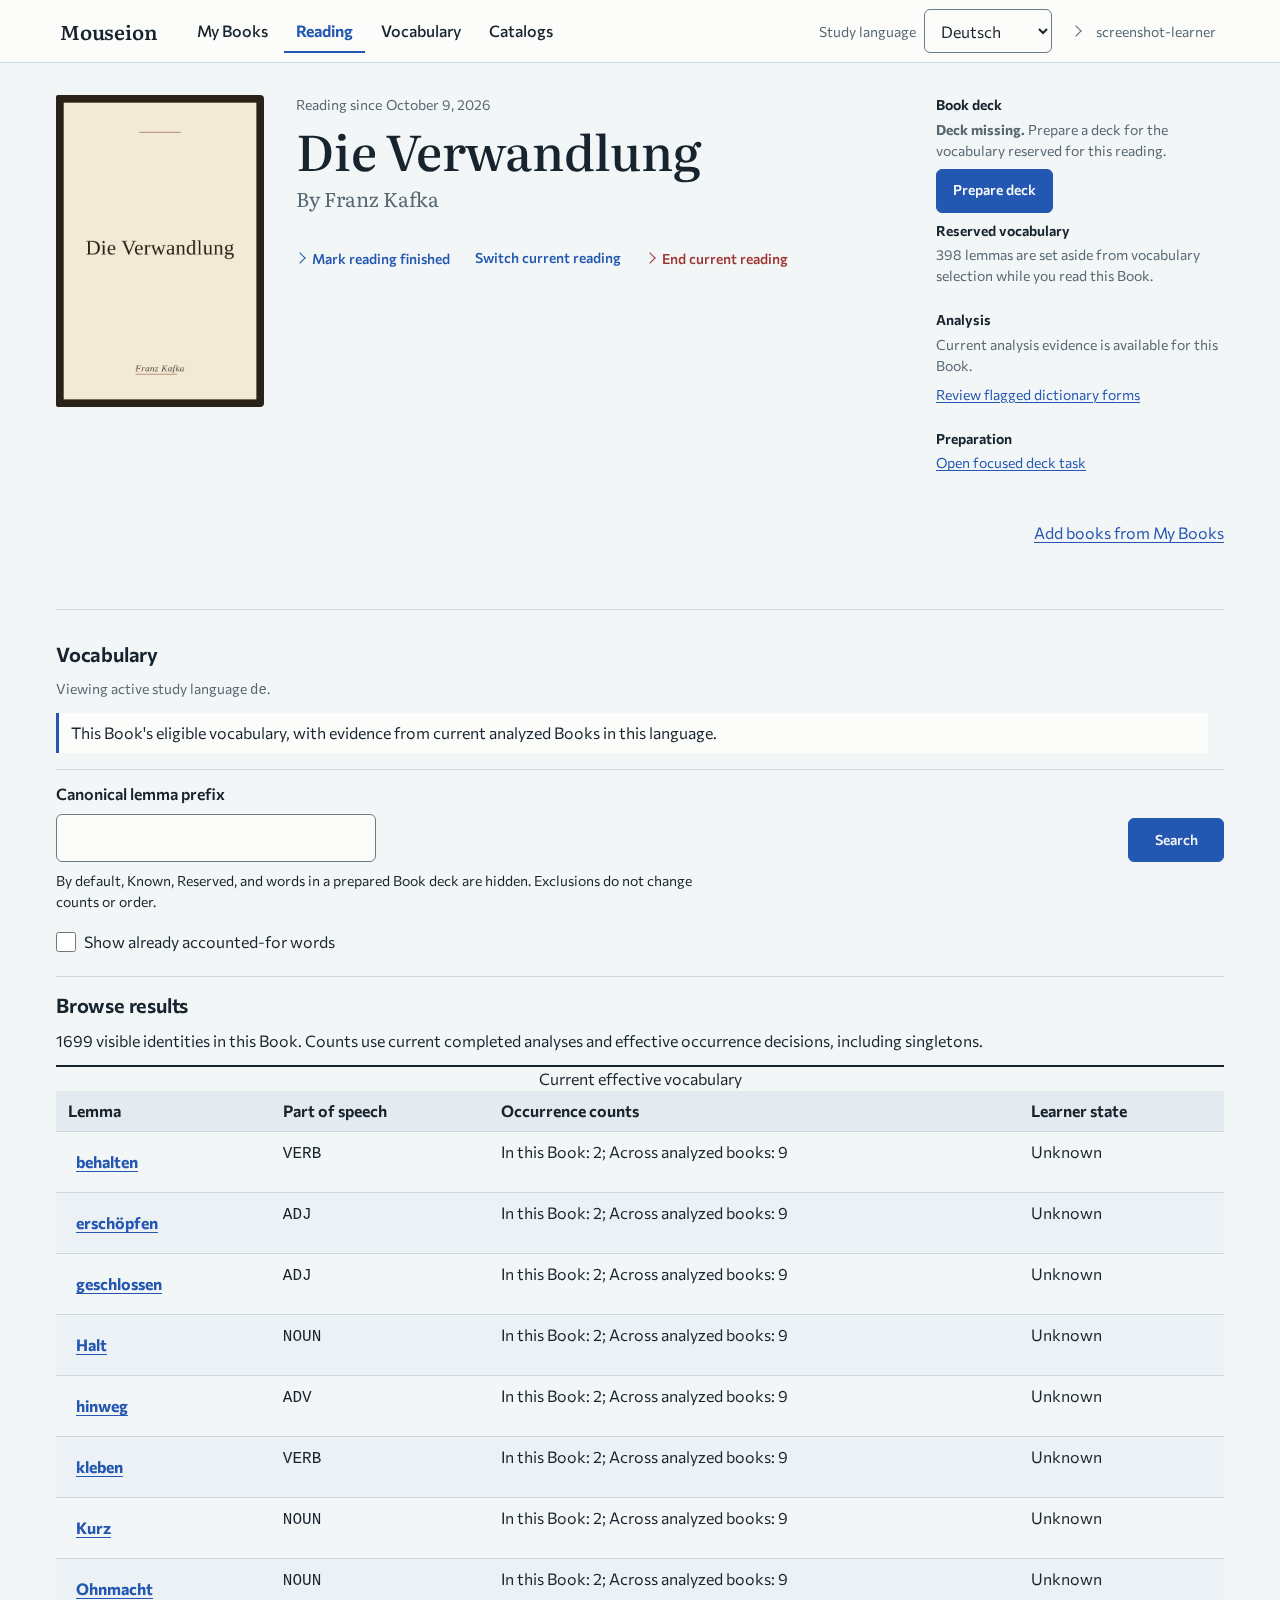
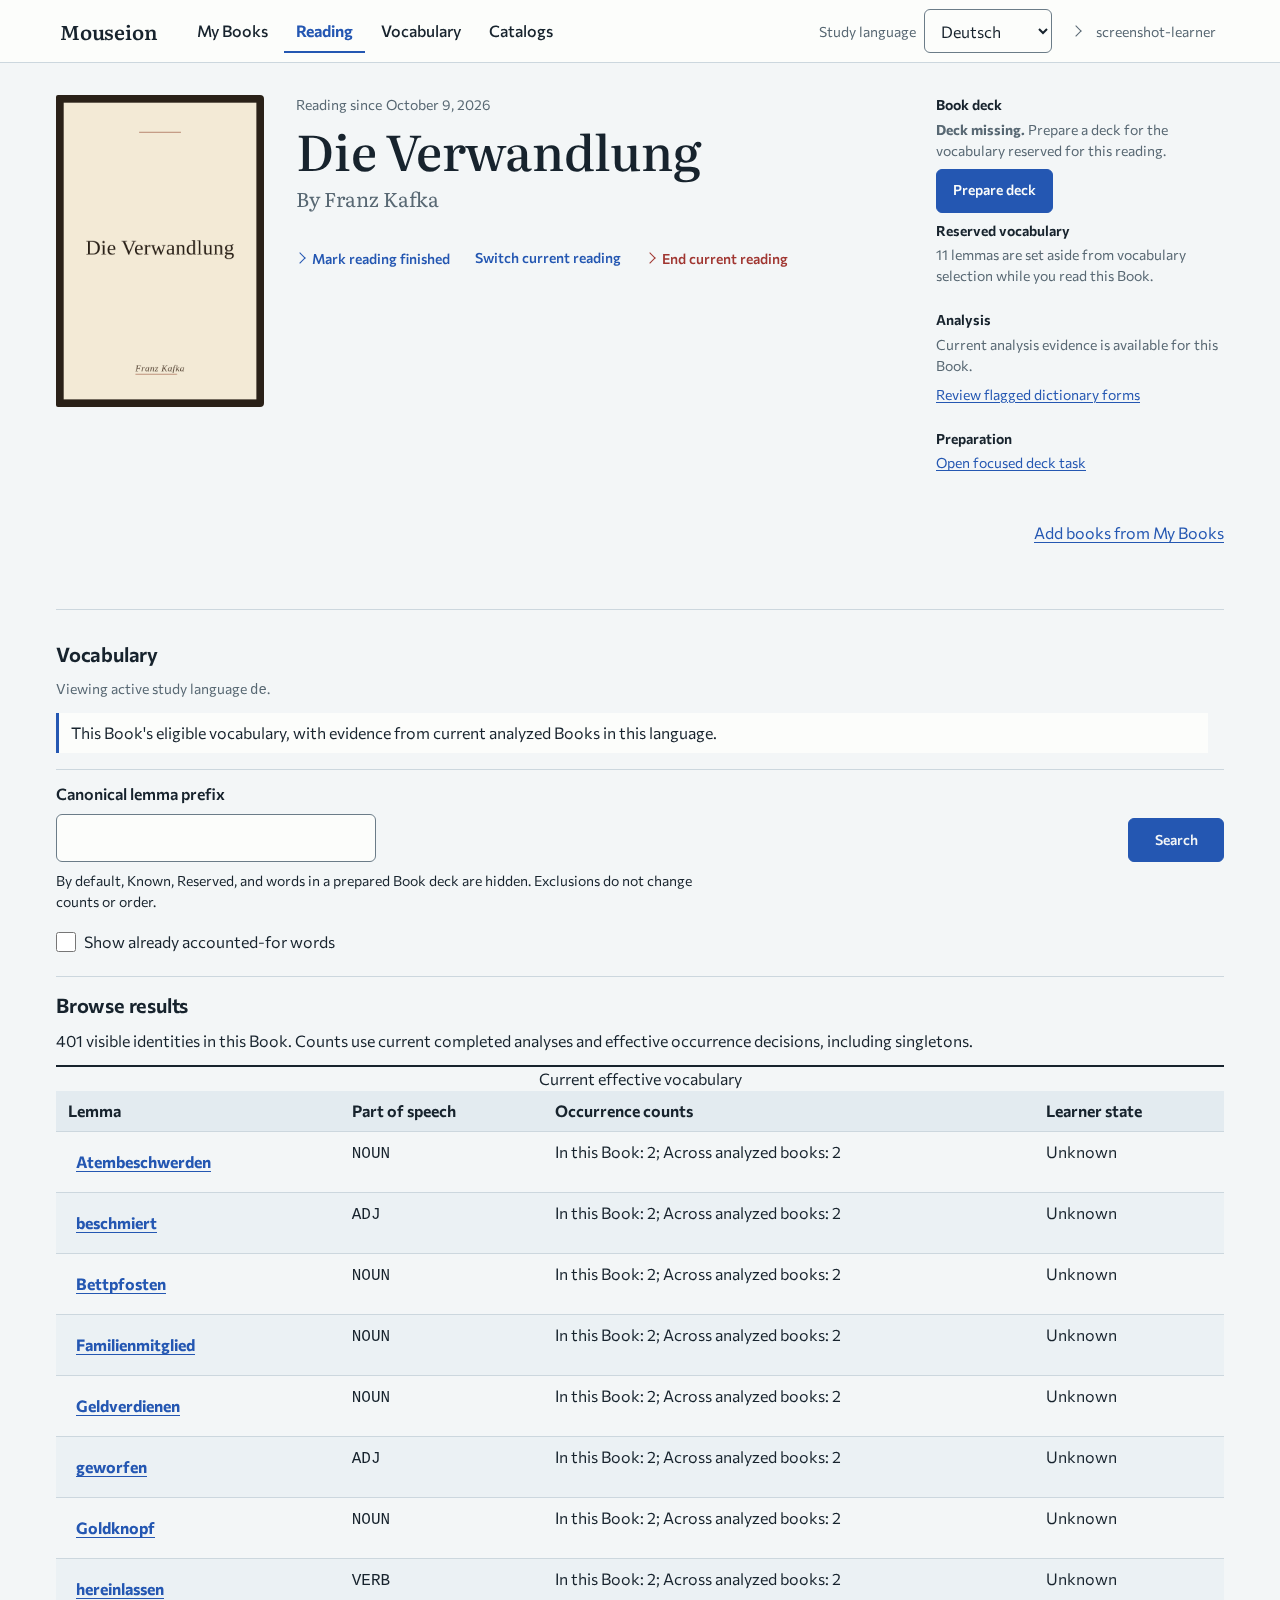
feat(e2e): capture Concordance and sentence Study screenshots (#1632) (#1643)

diff --git a/e2e/screenshot/my-books.spec.ts b/e2e/screenshot/my-books.spec.ts
@@ -3,7 +3,8 @@
 // scenario Books to To Read and waits for each analysis, imports a Known
 // vocabulary baseline derived from the other Books (known-vocabulary.ts), reads
 // one Book to completion, starts the target Book, and then captures the Reading
-// view and My Books. Every input comes from the environment set by run.mjs, and
+// view and My Books, then looks up the configured lemma and captures the
+// Concordance and one sentence Study. Every input comes from the environment set by run.mjs, and
 // every wait is bounded and reports the Book or step that stalled.
 import { expect, test, type Page } from '@playwright/test';
 import { readFileSync } from 'node:fs';
@@ -18,6 +19,13 @@ interface ManifestBook {
   journey: Journey;
 }
 
+interface ManifestConcordance {
+  lemma: string;
+  upos: string;
+  minimumOccurrences: number;
+  minimumBooks: number;
+}
+
 function requiredEnv(name: string): string {
   const value = process.env[name];
   if (!value) throw new Error(`${name} is required; run this spec through make screenshot-my-books`);
@@ -30,11 +38,15 @@ const catalogName = requiredEnv('MOUSEION_SCREENSHOT_CATALOG_NAME');
 const catalogURL = requiredEnv('MOUSEION_SCREENSHOT_CATALOG_URL');
 const myBooksOutputPath = requiredEnv('MOUSEION_SCREENSHOT_OUTPUT');
 const readingOutputPath = requiredEnv('MOUSEION_SCREENSHOT_READING_OUTPUT');
+const concordanceOutputPath = requiredEnv('MOUSEION_SCREENSHOT_CONCORDANCE_OUTPUT');
+const studyOutputPath = requiredEnv('MOUSEION_SCREENSHOT_STUDY_OUTPUT');
 // The docker compose arguments that address the isolated stack, as a JSON array.
 const composeArgs = JSON.parse(requiredEnv('MOUSEION_SCREENSHOT_COMPOSE_ARGS')) as string[];
 const manifest = JSON.parse(readFileSync(requiredEnv('MOUSEION_SCREENSHOT_MANIFEST'), 'utf8')) as {
   books: ManifestBook[];
+  concordance: ManifestConcordance;
 };
+const { concordance } = manifest;
 
 const SYNC_TIMEOUT_MS = 5 * 60_000;
 const COVER_TIMEOUT_MS = 6 * 60_000;
@@ -46,6 +58,8 @@ const IMPORT_TIMEOUT_MS = 5 * 60_000;
 const MOVE_TIMEOUT_MS = 60_000;
 const POLL_INTERVAL_MS = 5_000;
 const MAX_SCREENSHOT_HEIGHT = 1600;
+// One Concordance page holds 25 results; the Study capture searches only these.
+const STUDY_CANDIDATE_LIMIT = 25;
 
 const WORKFLOW_LABEL: Record<Journey, string> = {
   inbox: 'Inbox',
@@ -305,8 +319,74 @@ async function assertBookVocabulary(page: Page, book: ManifestBook): Promise<voi
   });
 }
 
-async function settleAndCapture(page: Page, path: string, outputPath: string): Promise<void> {
-  await page.goto(path);
+// Looks up the configured lemma as a learner would: type it into the
+// Concordance form and submit. The applied lookup must be a lemma lookup.
+async function lookUpLemma(page: Page): Promise<void> {
+  await page.goto('/vocabulary/concordance');
+  await page.getByLabel('Lemma or word form').fill(concordance.lemma);
+  await page.getByRole('button', { name: 'Find', exact: true }).click();
+  await expect(
+    page.locator('#concordance-summary'),
+    `the Concordance did not apply "${concordance.lemma}" as a lemma; the analyzed corpus has no evidenced lemma of that form`,
+  ).toHaveText(`Forms of ${concordance.lemma}`, { timeout: 30_000 });
+}
+
+// The Concordance must show enough lines from enough Books to be a credible
+// example. Fewer means the corpus, the analysis, or the configured lemma changed.
+async function assertConcordanceCorpus(page: Page): Promise<void> {
+  const lines = await page.locator('li.concordance-result').count();
+  const books = new Set(
+    (await page.locator('.concordance-source-title').allTextContents()).map(title => title.trim()).filter(Boolean),
+  );
+  if (lines < concordance.minimumOccurrences || books.size < concordance.minimumBooks) {
+    throw new Error(
+      `The analyzed corpus yields ${lines} Concordance line(s) from ${books.size} Book(s) for lemma "${concordance.lemma}"; ` +
+        `the screenshot needs at least ${concordance.minimumOccurrences} lines from ${concordance.minimumBooks} Books. ` +
+        'Check the concordance lemma in e2e/screenshot/manifest.json and the analysis results.',
+    );
+  }
+}
+
+// The Concordance has no part-of-speech control, so the lemma's occurrences
+// include nominalised and other forms. Opens the first result, within the first
+// page, whose identified token is the configured part of speech, then checks
+// that the token shows lemma and dependency evidence and resolves to the lemma.
+// Each result is opened in turn and the browser goes back between them.
+async function openSentenceStudy(page: Page): Promise<void> {
+  const concordanceSummary = page.locator('#concordance-summary');
+  const links = page.getByRole('link', { name: 'Study this sentence and its syntax' });
+  const candidates = Math.min(await links.count(), STUDY_CANDIDATE_LIMIT);
+  expect(candidates, `the Concordance for "${concordance.lemma}" has no results to study`).toBeGreaterThan(0);
+
+  const skipped: string[] = [];
+  for (let index = 0; index < candidates; index++) {
+    await links.nth(index).click();
+    await expect(page.locator('#sentence-study-heading'), 'the sentence Study view opened').toBeVisible({ timeout: 30_000 });
+    const target = page.locator('ol.sentence-study-tokens li', { has: page.getByText('identified target') });
+    await expect(target, 'the sentence Study does not identify the target token').toHaveCount(1);
+    const upos = (await target.locator('code').first().innerText()).trim();
+    if (upos !== concordance.upos) {
+      skipped.push(upos);
+      await page.goBack();
+      await expect(concordanceSummary, 'returned to the Concordance results').toBeVisible({ timeout: 30_000 });
+      continue;
+    }
+
+    const evidence = (await target.innerText()).replace(/\s+/g, ' ').trim();
+    expect(evidence, 'the target token lacks lemma evidence').toContain('lemma evidence');
+    expect(evidence, `the target token does not resolve to the lemma "${concordance.lemma}"`).toContain(
+      `effective lemma ${concordance.lemma}`,
+    );
+    expect(evidence, 'the target token lacks dependency evidence').toContain('dependency');
+    return;
+  }
+  throw new Error(
+    `None of the first ${candidates} Concordance results for "${concordance.lemma}" identifies a ${concordance.upos} token ` +
+      `(found: ${skipped.join(', ')}). Check the concordance lemma in e2e/screenshot/manifest.json.`,
+  );
+}
+
+async function settleAndCapture(page: Page, outputPath: string): Promise<void> {
   await page.emulateMedia({ colorScheme: 'light' });
   await page.evaluate(() => document.fonts.ready);
   await page.waitForFunction(() => document.querySelectorAll('.htmx-request').length === 0, undefined, { timeout: 15_000 });
@@ -334,7 +414,7 @@ async function settleAndCapture(page: Page, path: string, outputPath: string): P
   });
 }
 
-test('the scenario Books are analyzed, one is read to completion, and My Books and Reading are captured', async ({ page }) => {
+test('the scenario Books are analyzed, one is read to completion, and Reading, My Books, Concordance, and Study are captured', async ({ page }) => {
   const [readBook] = booksWithJourney('read');
   const [currentBook] = booksWithJourney('current');
   expect(booksWithJourney('read'), 'manifest has exactly one read Book').toHaveLength(1);
@@ -359,14 +439,19 @@ test('the scenario Books are analyzed, one is read to completion, and My Books a
   await startReading(page, currentBook);
   await assertBookVocabulary(page, currentBook);
   await expect(page.locator('#primary-goal-section').getByRole('heading', { level: 1 })).toContainText(currentBook.title);
-  await expect(
-    page.locator('p.numeric', { hasText: 'Known vocabulary coverage:' }).first(),
-    'a numeric Known coverage figure is shown in Reading before the capture',
-  ).toContainText(/\d+(?:\.\d+)?%/);
-  await settleAndCapture(page, '/reading', readingOutputPath);
+  await page.goto('/reading');
+  await settleAndCapture(page, readingOutputPath);
 
   for (const book of manifest.books) {
     expect(await workflowLabel(page, book), `${book.title} workflow bucket in My Books`).toBe(WORKFLOW_LABEL[book.journey]);
   }
-  await settleAndCapture(page, '/library', myBooksOutputPath);
+  await page.goto('/library');
+  await settleAndCapture(page, myBooksOutputPath);
+
+  await lookUpLemma(page);
+  await assertConcordanceCorpus(page);
+  await settleAndCapture(page, concordanceOutputPath);
+
+  await openSentenceStudy(page);
+  await settleAndCapture(page, studyOutputPath);
 });

diff --git a/e2e/screenshot/known-vocabulary.ts b/e2e/screenshot/known-vocabulary.ts
@@ -2,8 +2,9 @@
 // the analyzed corpus of the Books other than the target. The lemmas are read
 // read-only from the screenshot stack's own PostgreSQL through Compose, ranked
 // by frequency, and cut at the smallest rank whose estimated Known coverage of
-// the target Book reaches TARGET_COVERAGE_PERCENT. The spec imports the result
-// through the normal vocabulary interface and checks the coverage the app shows.
+// the target Book reaches TARGET_COVERAGE_PERCENT, or all of them when that
+// target is unreachable. The spec imports the result through the normal
+// vocabulary interface and checks the coverage the app shows against the band.
 import { spawn } from 'node:child_process';
 
 export const COVERAGE_MIN_PERCENT = 94;
@@ -67,9 +68,16 @@ export function chooseBaseline(
       };
     }
   }
-  throw new Error(
-    `the ${ranked.length} lemmas from the other Books reach only ${((known * 100) / denominator).toFixed(1)}% of the target Book`,
-  );
+  // The target is not reachable from the other Books, so every lemma is used and
+  // the spec's coverage band decides whether the result is acceptable.
+  const coverage = (Math.min(known, denominator) * 100) / denominator;
+  return {
+    lemmas: ranked.map(([value]) => value),
+    rank: ranked.length,
+    frequency: ranked.length > 0 ? ranked[ranked.length - 1][1] : 0,
+    estimatedCoverage: coverage,
+    text: ranked.map(([value]) => value).join('\n') + '\n',
+  };
 }
 
 function quoteLiteral(value: string): string {

diff --git a/e2e/README.md b/e2e/README.md
@@ -162,23 +162,32 @@ Committed baselines belong under `e2e/tests/**/__snapshots__/`. Failed runs
 retain reviewable output in `playwright-report/` and `test-results/`; traces,
 screenshots, and videos are retained there according to the Playwright config.
 
-## Documentation screenshots of My Books and Reading
+## Documentation screenshots of My Books, Reading, Concordance, and Study
 
 `make screenshot-my-books` builds the documentation screenshots
-`doc/images/my-books.png` and `doc/images/reading.png` on an isolated Compose
-stack. It is separate from `make browser-smoke` and CI.
+`doc/images/my-books.png`, `doc/images/reading.png`,
+`doc/images/concordance.png`, and `doc/images/sentence-study.png` on an isolated
+Compose stack. It is separate from `make browser-smoke` and CI. Nothing is
+written unless every assertion passes.
 
 - The learner workflow moves every scenario Book except the one marked `inbox`
   to To Read, waits for each analysis through Reading's chooser, starts and
   finishes the `read` Book, starts the `current` Book, and asserts its title and
   a non-empty Book vocabulary table before capturing Reading. My Books is then
   captured with the Inbox, To Read, Currently reading, and Read buckets asserted.
+- The Concordance lookup types the lemma configured in the `concordance` block of
+  `screenshot/manifest.json` into the Concordance form. The capture fails unless
+  the analyzed corpus yields at least `minimumOccurrences` lines from at least
+  `minimumBooks` Books. The sentence Study opens the first result, within the
+  first page, whose identified token has the configured part of speech, and
+  checks its lemma and dependency evidence.
 - Before the `current` Book starts, the workflow derives a Known-vocabulary
   baseline from the analyzed Books other than it: their lemmas ranked by
   frequency, read-only from the stack's database, cut at the rank where the
-  `current` Book's Known coverage reaches about 96%. The list is imported through
-  Vocabulary, and the run fails unless the measured coverage is within 94–98%.
-  The cut-off and measured coverage are printed.
+  `current` Book's Known coverage reaches about 96%. If no rank reaches 96%, all
+  of them are used. The list is imported through Vocabulary, and the run fails
+  unless the measured coverage is within 94–98%. The cut-off and measured
+  coverage are printed.
 - Each wait is bounded and names the Book or step that stalled. Analysis of the
   full set is bounded at 30 minutes; the Playwright test budget is 75 minutes.
 - Source books are pinned Project Gutenberg editions in
